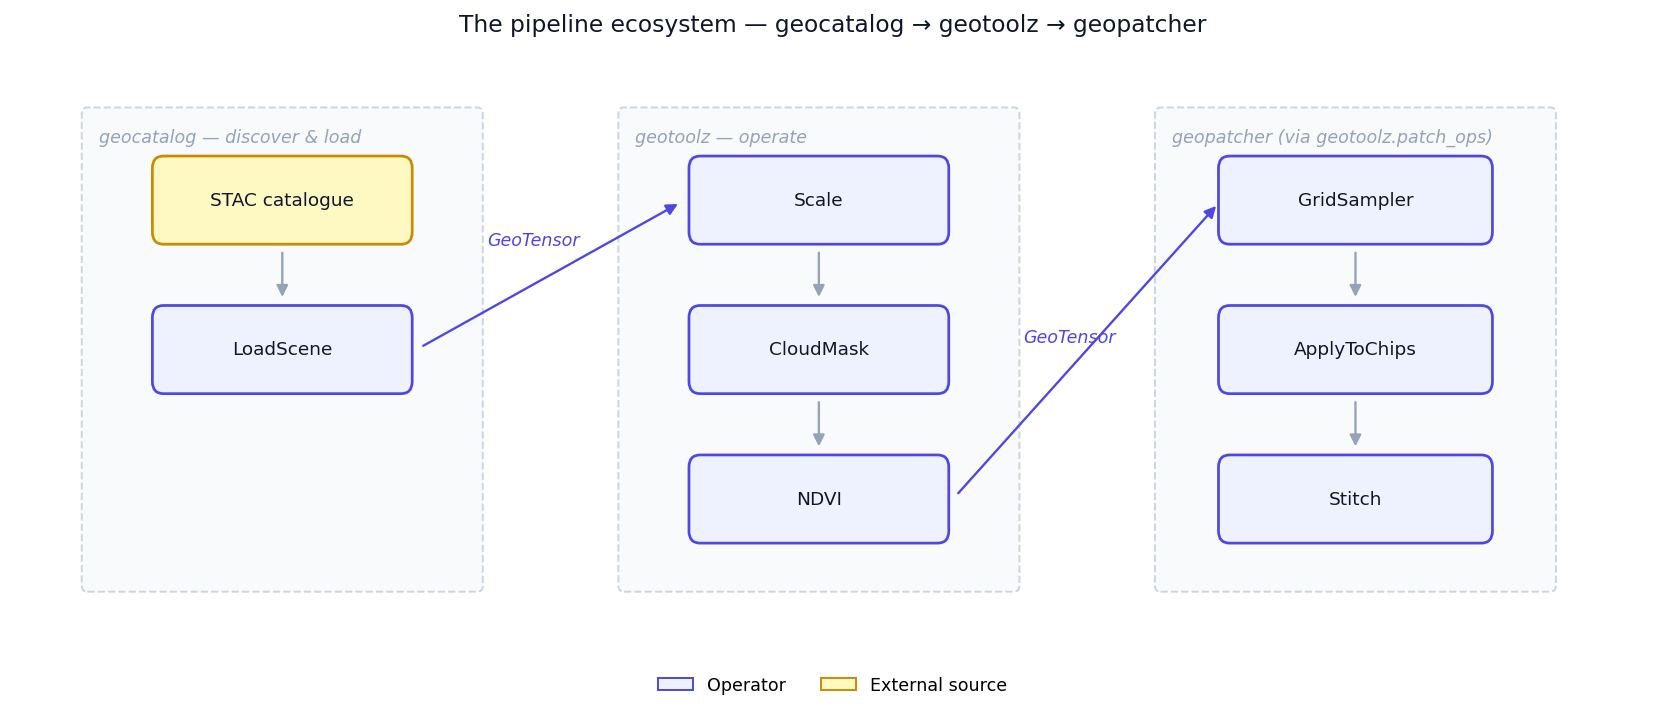
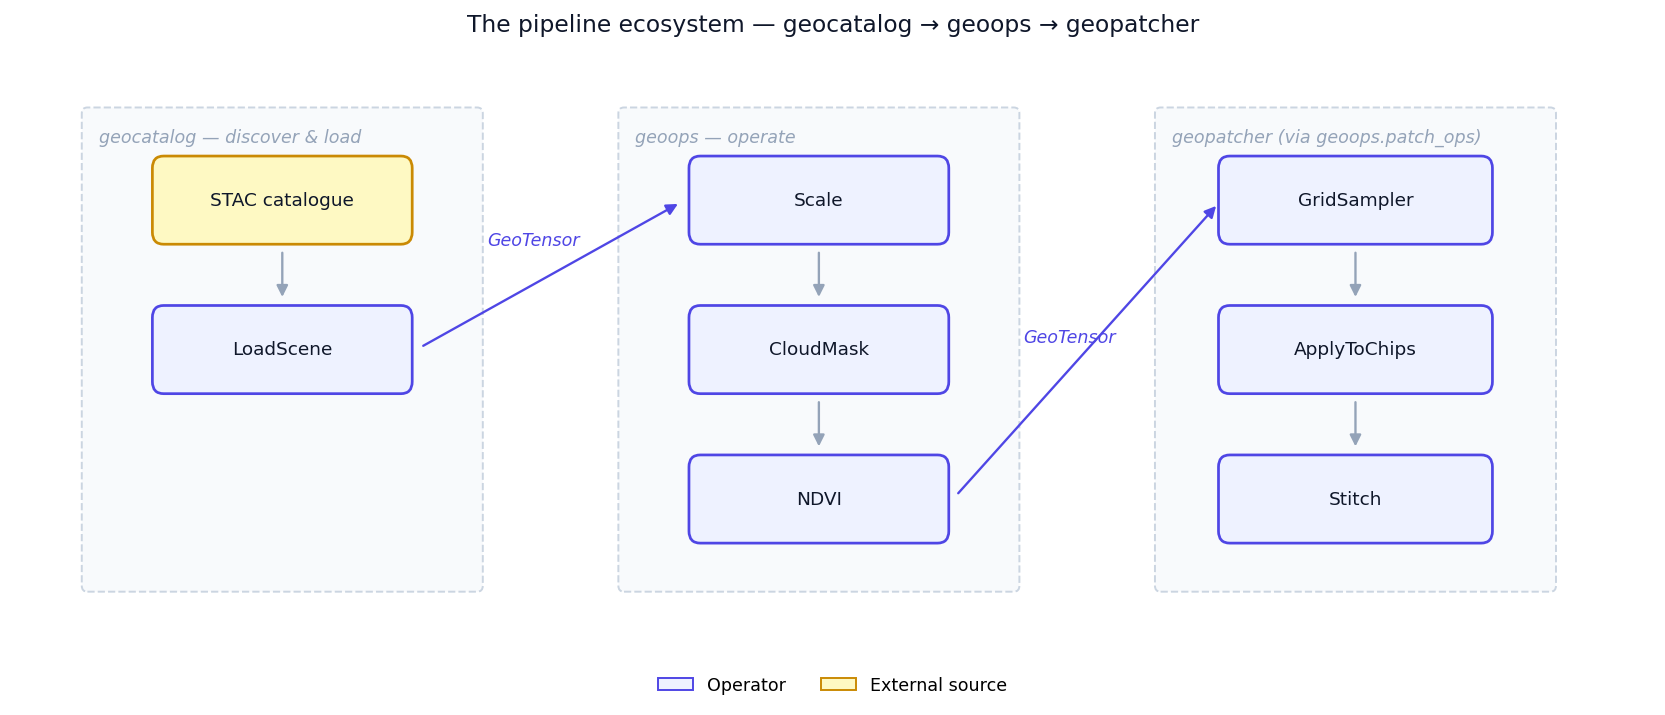
docs: rename the operator package in the diagrams
The diagrams and their alt text still labelled the operator package
geotoolz; stack-layers even paired 'geotoolz' with 'import geoops'.
Relabel it geotoolz-ops / geoops in the six HTML diagrams and the
pipeline-ecosystem figure, and re-render the PNGs.

Claude-Session: https://claude.ai/code/session_013vZAw3je1XaDxga9ESGnci

Changed region(s): [[0.2811, 0.0, 0.7183, 0.0615], [0.812, 0.1846, 0.9057, 0.2154], [0.406, 0.1846, 0.4997, 0.2154]]

diff --git a/docs/assets/diagrams/stack-layers.html b/docs/assets/diagrams/stack-layers.html
@@ -53,9 +53,9 @@
       <div class="imp">import geopatcher</div>
       <div class="one">Four-axis patchers, Field adapters, runners, PatchCache</div>
     </div>
-    <div class="pkg-card compute" id="p-geotoolz">
+    <div class="pkg-card compute" id="p-geoops">
       <div class="verb">compute</div>
-      <div class="dist">geotoolz</div>
+      <div class="dist">geotoolz-ops</div>
       <div class="imp">import geoops</div>
       <div class="one">Carrier-preserving Operator families; patch_ops bridges the patcher</div>
     </div>
@@ -75,7 +75,7 @@
 <script src="_connect.js"></script>
 <script>
   const X = "#64748b";
-  wire("p-products", "p-geotoolz", { from: "top", to: "top", bend: 140, dashed: true, color: X, fromShift: -40, toShift: 30,
+  wire("p-products", "p-geoops", { from: "top", to: "top", bend: 140, dashed: true, color: X, fromShift: -40, toShift: 30,
         label: "<span class='t'>[operators]</span><span class='s'>sensor presets</span>" });
   wire("p-catalog", "p-patcher", { from: "right", to: "left", dashed: true, color: X,
         label: "<span class='t'>[patch]</span>", dy: -18 });
@@ -83,15 +83,15 @@
         label: "<span class='t'>[goes] [himawari]</span>" });
   wire("p-catalog", "geocloud", { from: "bottom", to: "top", dashed: true, color: X,
         label: "<span class='t'>[cloud]</span>" });
-  wire("p-geotoolz", "geocloud", { from: "bottom", to: "top", dashed: true, color: X, fromShift: -110, toShift: 470, dx: -95, dy: 14,
+  wire("p-geoops", "geocloud", { from: "bottom", to: "top", dashed: true, color: X, fromShift: -110, toShift: 470, dx: -95, dy: 14,
         label: "<span class='t'>[cloud] [hdf5]</span>" });
   wire("p-patcher", "geocloud", { from: "bottom", to: "top", dashed: true, color: X, fromShift: -40, toShift: 360,
         label: "<span class='t'>[cog]</span>" });
-  wire("p-geotoolz", "p-patcher", { from: "left", to: "right", dashed: true, color: X,
+  wire("p-geoops", "p-patcher", { from: "left", to: "right", dashed: true, color: X,
         label: "<span class='t'>[patch]</span>", dy: -18 });
   wire("p-patcher", "pipekit", { from: "bottom", to: "top", dashed: true, color: X, fromShift: 60, toShift: -80, bend: 18,
         label: "<span class='t'>[pipekit]</span>" });
-  wire("p-geotoolz", "pipekit", { from: "bottom", to: "top", color: "#475569", toShift: 40 });
+  wire("p-geoops", "pipekit", { from: "bottom", to: "top", color: "#475569", toShift: 40 });
   ready();
 </script>
 </body>

diff --git a/docs/assets/diagrams/products-architecture.html b/docs/assets/diagrams/products-architecture.html
@@ -22,7 +22,7 @@
 <body>
 <div id="diagram">
   <div class="title">geoproducts — every product becomes a GeoTensor</div>
-  <div class="subtitle">Readers depend on georeader, never on geotoolz; what they return is what every operator and patcher takes.</div>
+  <div class="subtitle">Readers depend on georeader, never on geoops; what they return is what every operator and patcher takes.</div>
 
   <div class="lane read" id="lane-products">
     <div class="lane-head"><span class="verb">products</span><span class="pkg">geoproducts.&lt;product&gt;</span></div>
@@ -68,7 +68,7 @@
 
   <div class="bottom">
     <div class="node solid" id="gt" style="--accent: var(--read);"><div class="name">GeoTensor</div><div class="desc">CRS · transform · band_names · fill value — the one carrier the rest of the stack takes</div></div>
-    <div class="node compute" id="to-gz"><div class="name">geotoolz operators</div><div class="desc">indices · viz.RGBRecipe · plume · …</div></div>
+    <div class="node compute" id="to-gz"><div class="name">geoops operators</div><div class="desc">indices · viz.RGBRecipe · plume · …</div></div>
     <div class="node cut" id="to-gp"><div class="name">geopatcher fields</div><div class="desc">RasterField(reader) → split / merge</div></div>
   </div>
 </div>

diff --git a/docs/assets/diagrams/stack-overview.html b/docs/assets/diagrams/stack-overview.html
@@ -73,7 +73,7 @@
 
     <!-- column 3: compute -->
     <div class="lane compute" id="lane-compute">
-      <div class="lane-head"><span class="verb">compute</span><span class="pkg">geotoolz</span></div>
+      <div class="lane-head"><span class="verb">compute</span><span class="pkg">geotoolz-ops</span></div>
       <div class="node" id="ops">
         <div class="name"><code>Operator</code> · <code>Sequential</code> · <code>Graph</code></div>
         <div class="desc">radiometry · indices · qa · mask · geom · compositing · plume · matched_filter · learn · viz · …</div>

diff --git a/docs/assets/diagrams/patcher-axes.html b/docs/assets/diagrams/patcher-axes.html
@@ -65,7 +65,7 @@
 
     <div class="node compute" id="op">
       <div class="name">your operator</div>
-      <div class="desc">any callable on <code class="op" style="font-size:12px">patch.data</code> — numpy, a geotoolz <code class="op" style="font-size:12px">Sequential</code>, a model</div>
+      <div class="desc">any callable on <code class="op" style="font-size:12px">patch.data</code> — numpy, a geoops <code class="op" style="font-size:12px">Sequential</code>, a model</div>
     </div>
 
     <div class="node solid" id="out" style="--accent: var(--cut);">

diff --git a/docs/assets/diagrams/methane-flow.html b/docs/assets/diagrams/methane-flow.html
@@ -63,7 +63,7 @@
     </div>
 
     <div class="row compute">
-      <div class="row-label"><div class="verb">compute</div><div class="pkg">geotoolz</div></div>
+      <div class="row-label"><div class="verb">compute</div><div class="pkg">geoops</div></div>
       <div class="node c4" id="stack"><span class="step">4</span>
         <div class="name"><code>StackBands</code></div>
         <div class="desc">[B11, B12] → one carrier</div>

diff --git a/docs/assets/diagrams/geostack-intro.html b/docs/assets/diagrams/geostack-intro.html
@@ -234,7 +234,7 @@ function band(i0, i1, key, label) {
 band(0, 2, "find", "geotoolz-catalog  ·  geocatalog");
 band(3, 3, "read", "products · Field");
 band(4, 4, "cut", "geopatcher");
-band(5, 5, "compute", "geotoolz");
+band(5, 5, "compute", "geoops");
 band(6, 6, "cut", "geopatcher");
 band(7, 7, "compute", "geoops.io");
 

diff --git a/docs/assets/make_diagrams.py b/docs/assets/make_diagrams.py
@@ -10,7 +10,7 @@ Produces (under ``docs/assets/``):
   boxes-and-arrows.
 * ``operator-lifecycle.png`` — input → forward → output with type
   annotations.
-* ``pipeline-ecosystem.png`` — how ``geocatalog``, ``geotoolz``, and
+* ``pipeline-ecosystem.png`` — how ``geocatalog``, ``geoops``, and
   ``geopatcher`` fit together.
 
 The script uses only ``matplotlib`` + synthetic data so it runs in any
@@ -238,7 +238,7 @@ def make_operator_lifecycle() -> Path:
 def make_pipeline_ecosystem() -> Path:
     fig, ax = plt.subplots(figsize=(12, 5.2))
     ax.set_title(
-        "The pipeline ecosystem — geocatalog → geotoolz → geopatcher",
+        "The pipeline ecosystem — geocatalog → geoops → geopatcher",
         fontsize=12,
         color=TEXT,
         pad=10,
@@ -246,7 +246,7 @@ def make_pipeline_ecosystem() -> Path:
 
     # group rects — centred at y=2.0, each 2.8 wide x 3.2 tall
     _group(ax, 1.9, 2.0, 2.8, 3.2, "geocatalog — discover & load")
-    _group(ax, 5.7, 2.0, 2.8, 3.2, "geotoolz — operate")
+    _group(ax, 5.7, 2.0, 2.8, 3.2, "geoops — operate")
     _group(ax, 9.5, 2.0, 2.8, 3.2, "geopatcher (via geoops.patch_ops)")
 
     # geocatalog: stack STAC -> LoadScene vertically
@@ -254,7 +254,7 @@ def make_pipeline_ecosystem() -> Path:
     _box(ax, 1.9, 2.0, 1.8, 0.55, "LoadScene")
     _arrow(ax, 1.9, 2.7, 1.9, 2.3)
 
-    # geotoolz: three boxes vertical
+    # geoops: three boxes vertical
     _box(ax, 5.7, 3.0, 1.8, 0.55, "Scale")
     _box(ax, 5.7, 2.0, 1.8, 0.55, "CloudMask")
     _box(ax, 5.7, 1.0, 1.8, 0.55, "NDVI")

diff --git a/docs/index.md b/docs/index.md
@@ -36,7 +36,7 @@ an operator — *tile → predict → stitch* is one more `Sequential`.
 | `geotoolz-cloud` | `geocloud` | reach object storage: one client pool, file verbs, credentials, COG reads and writes | [Cloud](cloud/index.md) |
 | `geotoolz-products` | `geoproducts` | read Earth-observation products (GOES-R ABI, Himawari AHI, Carbon Mapper, …) as `GeoTensor`s | [Products](products/index.md) |
 
-![Dependency layers: the five packages stand on georeader; object storage in geotoolz-cloud; geotoolz on pipekit; cross-package links are opt-in extras](assets/diagrams/stack-layers.png)
+![Dependency layers: the five packages stand on georeader; object storage in geotoolz-cloud; geotoolz-ops on pipekit; cross-package links are opt-in extras](assets/diagrams/stack-layers.png)
 
 Solid arrows are hard dependencies, dotted ones opt-in extras, and nothing
 points back up: install only the packages you need. [How the packages

diff --git a/packages/geotoolz-products/README.md b/packages/geotoolz-products/README.md
@@ -16,7 +16,7 @@
 > **Every Earth-observation product, read as a georeader `GeoTensor`.**
 > One reader per mission or provider; what comes out is what every geotoolz operator and geopatcher field takes.
 
-<p align="center"><img src="../../docs/assets/diagrams/products-architecture.png" alt="geoproducts: one namespace per product (Reader, bucket or API helpers, BANDS, recipes, presets), built on a shared toolkit and the ProductReader contract, produces GeoTensors for geotoolz and geopatcher" width="100%"></p>
+<p align="center"><img src="../../docs/assets/diagrams/products-architecture.png" alt="geoproducts: one namespace per product (Reader, bucket or API helpers, BANDS, recipes, presets), built on a shared toolkit and the ProductReader contract, produces GeoTensors for geoops and geopatcher" width="100%"></p>
 
 ## 30-second pitch
 

diff --git a/docs/products/index.md b/docs/products/index.md
@@ -18,7 +18,7 @@ bands and calibrated values. The package depends on georeader only.
 Readers release on their own schedule, and their output drops straight
 into the operators, the patcher and the catalog loaders.
 
-![geoproducts: one namespace per product (Reader, bucket or API helpers, BANDS, recipes, presets), built on a shared toolkit and the ProductReader contract, produces GeoTensors for geotoolz operators and geopatcher fields](../assets/diagrams/products-architecture.png)
+![geoproducts: one namespace per product (Reader, bucket or API helpers, BANDS, recipes, presets), built on a shared toolkit and the ProductReader contract, produces GeoTensors for geoops operators and geopatcher fields](../assets/diagrams/products-architecture.png)
 
 ## Install
 

diff --git a/README.md b/README.md
@@ -67,7 +67,7 @@ distribution names carry the `geotoolz-` prefix. The dependency graph is
 a strict layering: solid arrows are hard dependencies, dotted arrows are
 opt-in extras, and nothing points back up.
 
-<p align="center"><img src="docs/assets/diagrams/stack-layers.png" alt="Dependency layers: the five packages stand on georeader; object storage in geotoolz-cloud; geotoolz on pipekit; cross-package links are opt-in extras" width="100%"></p>
+<p align="center"><img src="docs/assets/diagrams/stack-layers.png" alt="Dependency layers: the five packages stand on georeader; object storage in geotoolz-cloud; geotoolz-ops on pipekit; cross-package links are opt-in extras" width="100%"></p>
 
 ## Quickstart — catalog → patcher → operators
 

diff --git a/docs/geostack.md b/docs/geostack.md
@@ -4,7 +4,7 @@
 > first-class API — so a catalog query, a product reader, a patcher and an
 > operator chain fit together without glue code.
 
-![The geostack: find with geotoolz-catalog, read with geotoolz-products, cut with geotoolz-patcher, compute with geotoolz, stitch back with geotoolz-patcher](assets/diagrams/stack-overview.png)
+![The geostack: find with geotoolz-catalog, read with geotoolz-products, cut with geotoolz-patcher, compute with geotoolz-ops, stitch back with geotoolz-patcher](assets/diagrams/stack-overview.png)
 
 Five packages, one job each. `geotoolz-cloud` sits underneath the others:
 every read or write that touches a bucket goes through it.
